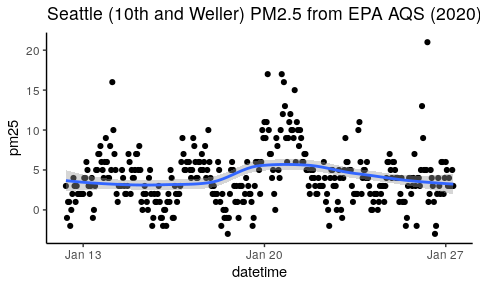
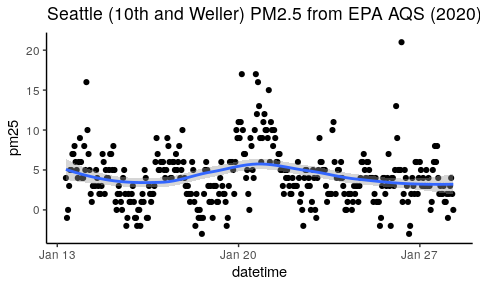
Added a slide and updated plots.

diff --git a/demos/data_import/epa_aqi/getAQI.md b/demos/data_import/epa_aqi/getAQI.md
@@ -1,7 +1,7 @@
 ---
 title: 'Air Quality Web Data'
 author: "Brian High"
-date: "25 January, 2021"
+date: "26 January, 2021"
 output:
   ioslides_presentation:
     fig_caption: yes
@@ -449,7 +449,7 @@ start_date
 ```
 
 ```
-## [1] "1/11/2021"
+## [1] "1/12/2021"
 ```
 
 ```r
@@ -457,7 +457,7 @@ end_date
 ```
 
 ```
-## [1] "1/24/2021"
+## [1] "1/25/2021"
 ```
 
 ## Create list of request parameters
@@ -517,7 +517,7 @@ substr(prettify(json_txt), 1, 400)
 ##     "StationId": 163,
 ##     "data": [
 ##         {
-##             "datetime": "2021-01-11T00:00:00-08:00",
+##             "datetime": "2021-01-12T00:00:00-08:00",
 ##             "Originaldatetime": "/Date(-62135568000000)/",
 ##             "channels": [
 ##                 {
@@ -525,7 +525,7 @@ substr(prettify(json_txt), 1, 400)
 ##                     "id": 32,
 ##                     "name": "BAM_PM25",
 ##                     "alias": null,
-##                     "value": 4.0,
+##                     "value": 1.0,
 ## 
 ```
 
@@ -613,7 +613,7 @@ We can query the Montlake station with this information:
 ```r
 # Get dataframe of information we need to query Thingspeak's API
 url <- "https://www.purpleair.com/json?show=84023"
-df <- jsonlite::fromJSON("https://www.purpleair.com/json?show=84023")$results
+df <- jsonlite::fromJSON(url)$results
 df <- df[df$Label == "Montlake", 
   c('ID', 'Label', 'THINGSPEAK_PRIMARY_ID', 'THINGSPEAK_PRIMARY_ID_READ_KEY')]
 
@@ -638,7 +638,7 @@ query_list <- list(api_key = ts_key, start = start, end = end, timescale = "60")
 response <- GET(url, query = query_list)
 
 # Extract data from JSON into a dataframe
-json_txt <-content(response, "text")
+json_txt <- content(response, "text")
 df <- as_tibble(fromJSON(json_txt)[['feeds']])
 
 # Get names for "field1" through "field8" from metadata list
@@ -661,6 +661,14 @@ ggplot(plot_df, aes(datetime, pm25)) + geom_point() +  ggtitle(plot_title) +
 ```
 
 ![](getAQI_files/figure-html/purple_air_plot-1.png)<!-- -->
+
+## Plot a map of PM2.5 AQI for Seattle
+
+We can plot PM2.5 AQI for multiple sensor locations in Seattle using `ggmap()`. 
+The code for the plot below is rather long, so it is stored in 
+[a separate script file](pa_multi_station_plot_current_seattle.R).
+
+![](img/pa_seattle_2021-01-26_50pct_resize.png)
 
 ## Exercises 
 
